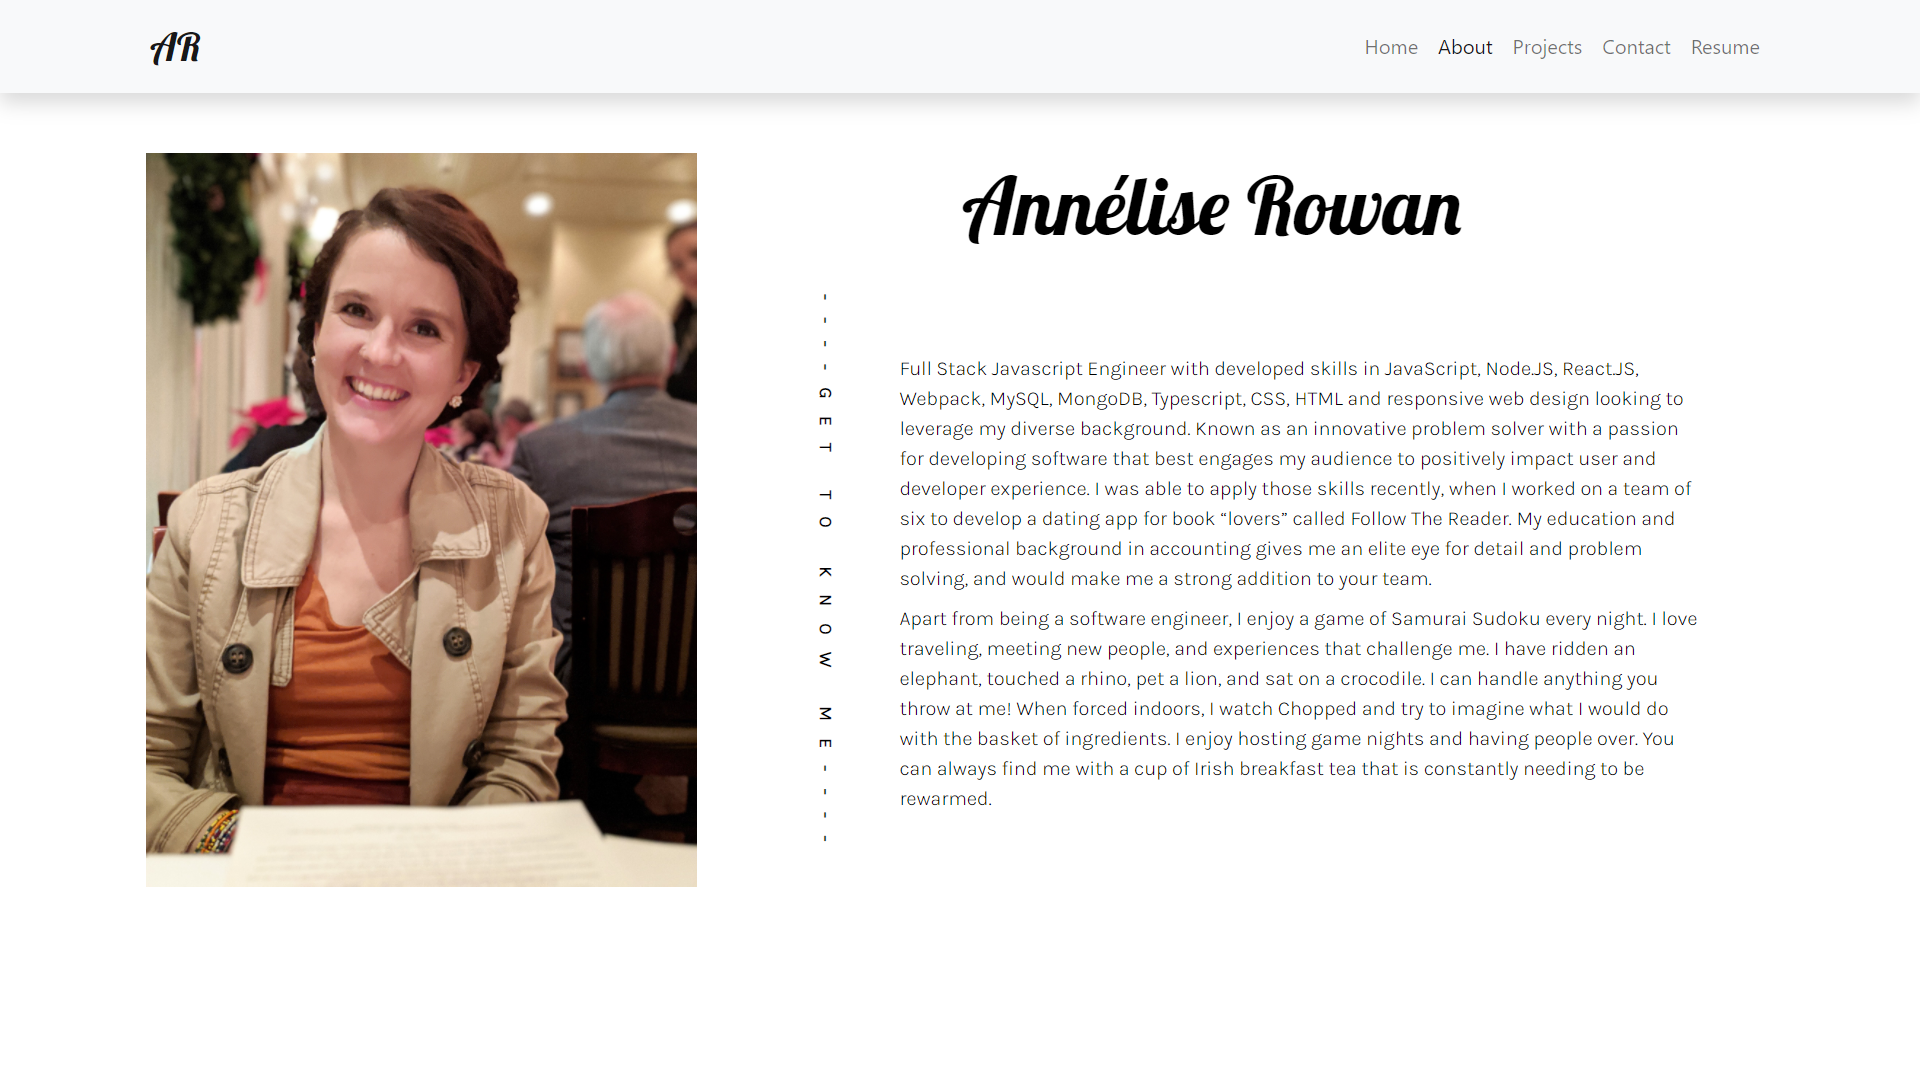
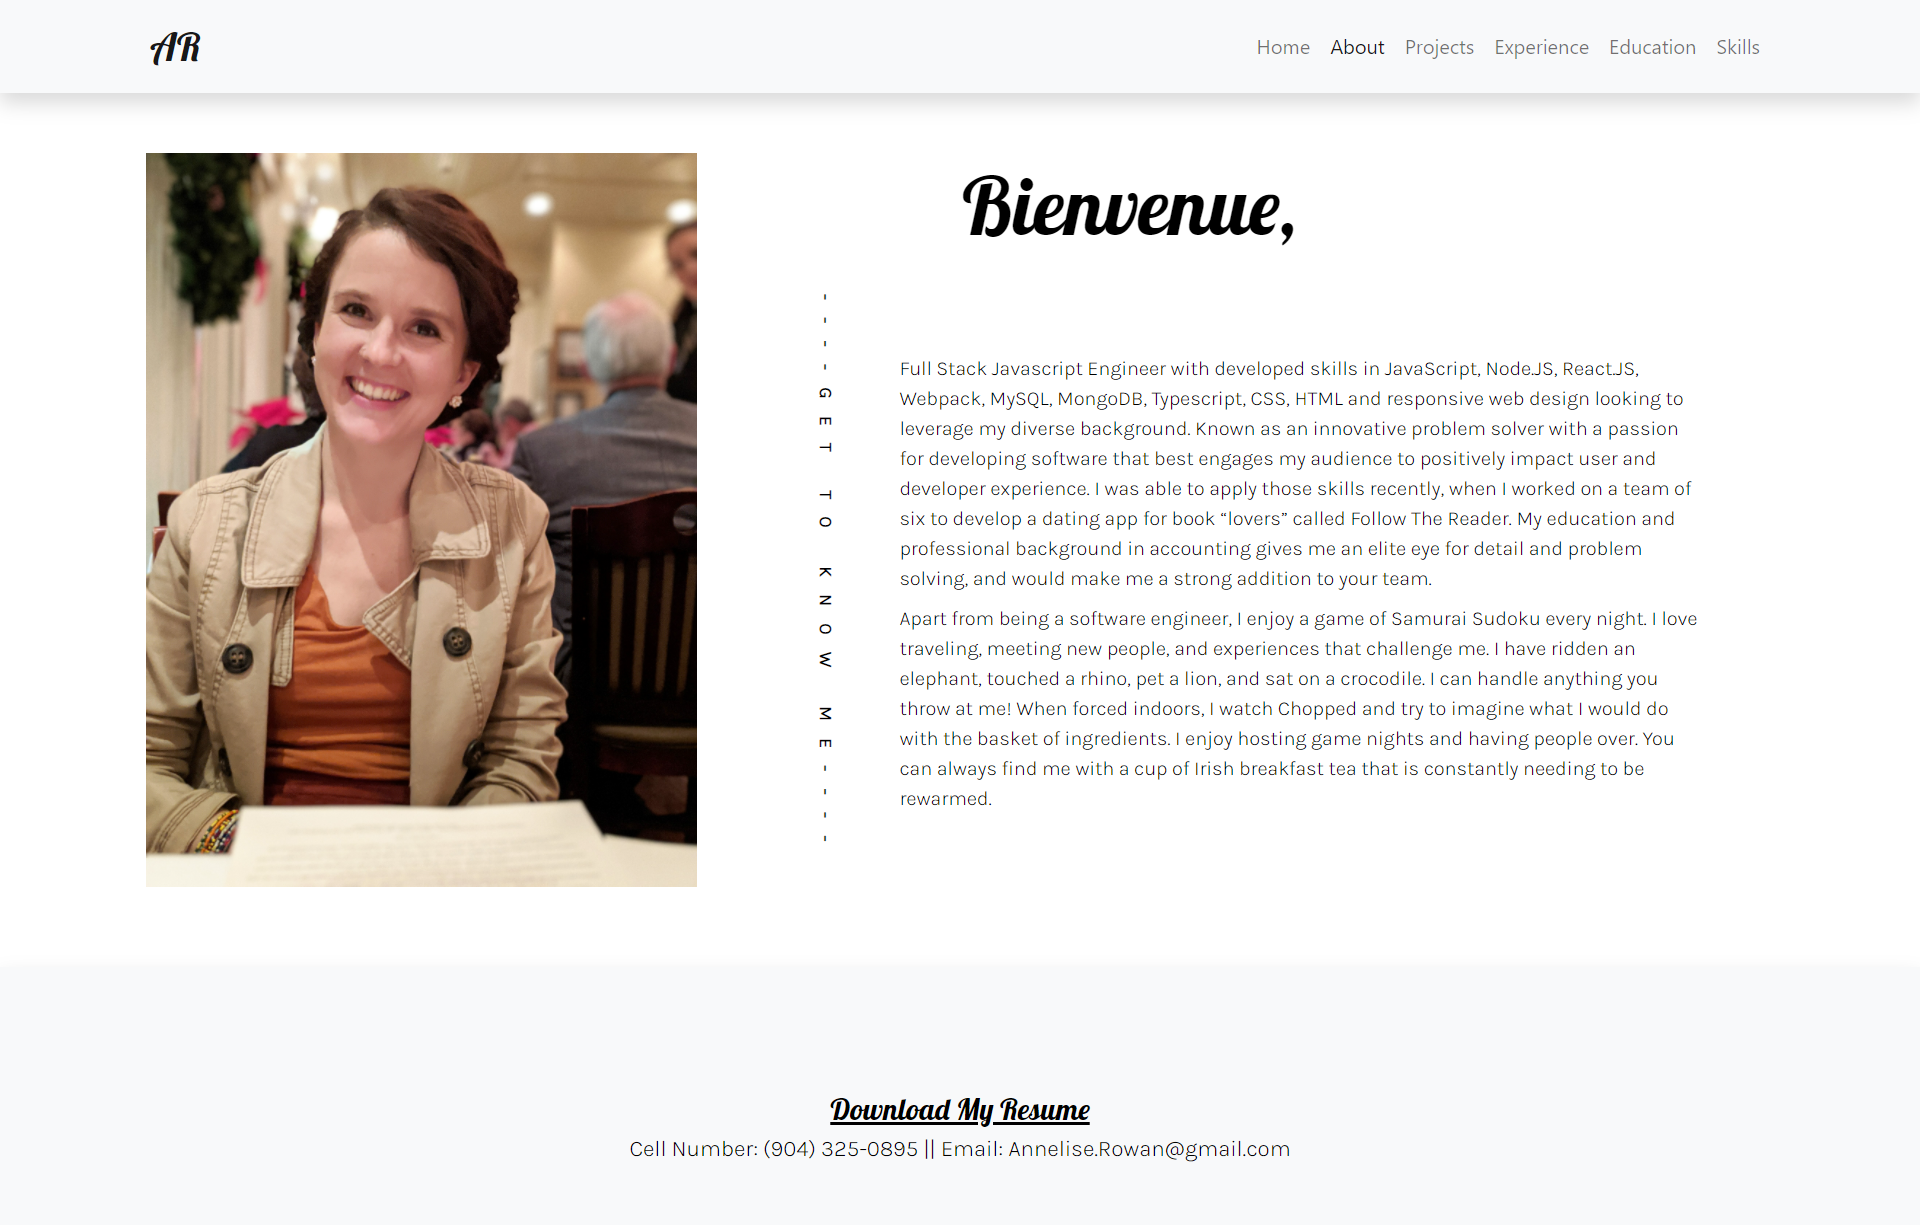
udpated readme

diff --git a/README.md b/README.md
@@ -10,11 +10,12 @@ Created a React Portfolio not only to share projects while applying for jobs or 
 
 ## Preview
 
-![Home Page](./Assets/Home.png)
-![About Page](./Assets/About.png)
-![Projects Page](./Assets/Projects.png)
-![Contact Page](./Assets/Contact.png)
-![Resume Page](./Assets/Resume.png)
+![Welcome to Annelise Rowan's Portfolio](./Assets/Home.png)
+![Get to Know Me](./Assets/About.png)
+![My Latest and Greatest Projects](./Assets/Projects.png)
+![My Killer Experience](./Assets/Experience.png)
+![The Education Station](./Assets/Education.png)
+![My Changing and Growing Skillset](./Assets/Skills.png)
 
 ## Deployed Site
 
